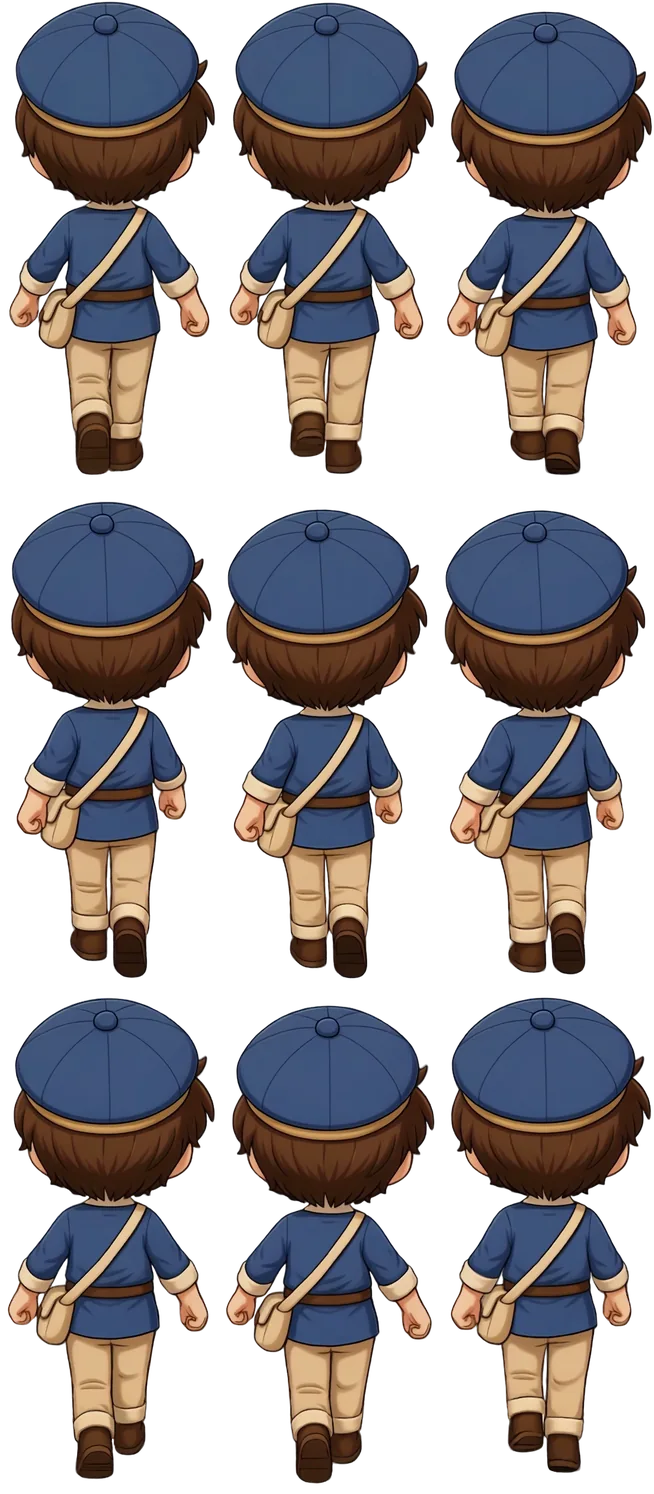
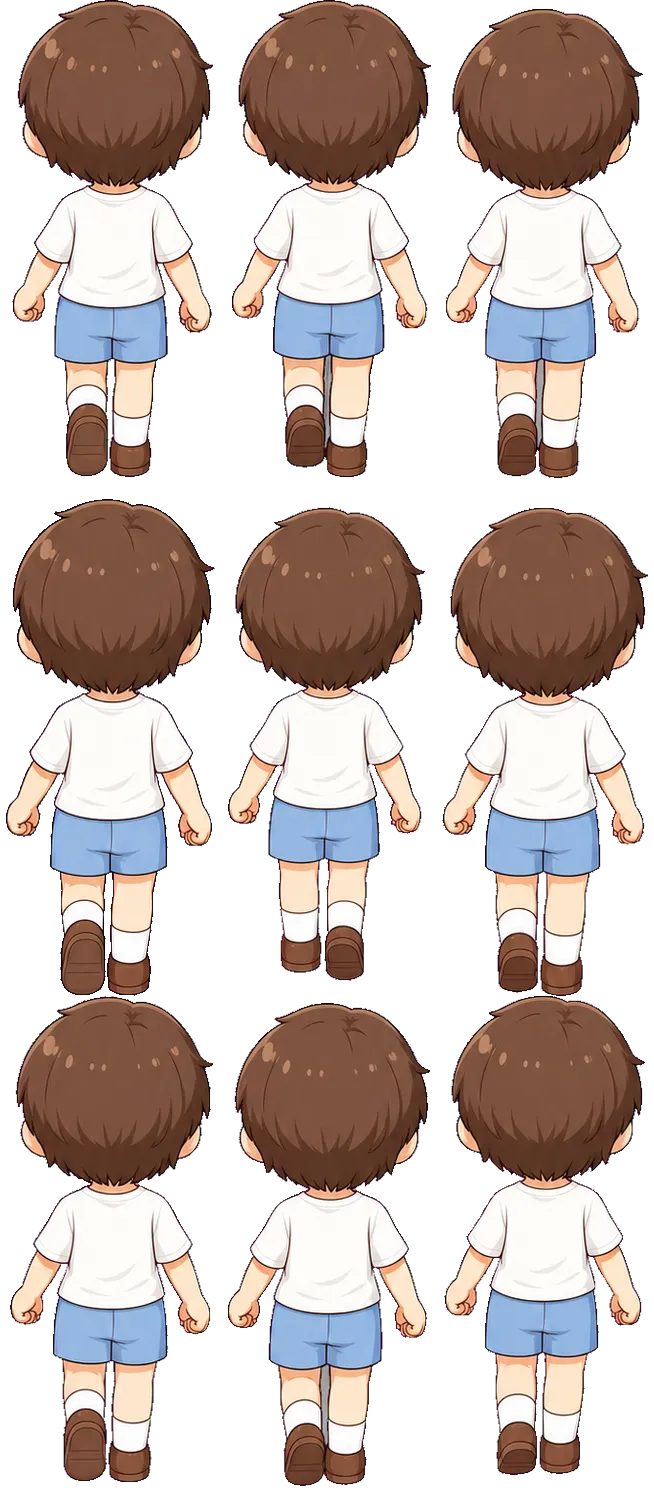
demo村莊：預設小男孩重生為素顏配對版（對齊素顏女孩）
- 拿掉藍帽/斜背包，外套→白T、卡其褲→藍短褲，配白襪棕鞋，棕短髮chibi
- player1/2/3.webp(正/背/側)換新，9幀走路循環一致、腳底基準齊、尺寸同原檔
- cache-bust ?v=4→5：初始載入(explore.js)、換裝切回預設(applyWalkOutfit)、多人遠端(mp.js)三條路徑全對齊
- index.html: explore.js?v=132→133、mp.js?v=30→31
- 原檔備份 village-web/_backup_default_boy_20260618/
- Codex審過：抓到applyWalkOutfit+mp.js漏改?v=4已補

diff --git a/village-web/explore.js b/village-web/explore.js
@@ -196,9 +196,9 @@ class ExploreScene extends Phaser.Scene {
     const ow = oc.sheets;
     // 紀錄這批 texture 實際載的是哪套造型（換裝對帳用，texture 是 game 全域所以放 window）
     if (!this.textures.exists("hero")) window.__walkOutfitApplied = oc.id;
-    if (!this.textures.exists("hero"))      this.load.spritesheet("hero",      this.assetBase + (ow ? ow.side : ps.side.image) + "?v=4", { frameWidth: ps.side.frame_width, frameHeight: ps.side.frame_height });
-    if (!this.textures.exists("hero_down")) this.load.spritesheet("hero_down", this.assetBase + (ow ? ow.down : ps.down.image) + "?v=4", { frameWidth: ps.down.frame_width, frameHeight: ps.down.frame_height });
-    if (!this.textures.exists("hero_up"))   this.load.spritesheet("hero_up",   this.assetBase + (ow ? ow.up   : ps.up.image)   + "?v=4", { frameWidth: ps.up.frame_width,   frameHeight: ps.up.frame_height });
+    if (!this.textures.exists("hero"))      this.load.spritesheet("hero",      this.assetBase + (ow ? ow.side : ps.side.image) + "?v=5", { frameWidth: ps.side.frame_width, frameHeight: ps.side.frame_height });
+    if (!this.textures.exists("hero_down")) this.load.spritesheet("hero_down", this.assetBase + (ow ? ow.down : ps.down.image) + "?v=5", { frameWidth: ps.down.frame_width, frameHeight: ps.down.frame_height });
+    if (!this.textures.exists("hero_up"))   this.load.spritesheet("hero_up",   this.assetBase + (ow ? ow.up   : ps.up.image)   + "?v=5", { frameWidth: ps.up.frame_width,   frameHeight: ps.up.frame_height });
 
     // 任務 NPC 頭頂符號（所有地圖共用，已載就跳過）：quest_mark=❗可領獎、quest_ask=❓可接任務、quest_progress=灰❗進行中
     if (!this.textures.exists("quest_mark")) this.load.image("quest_mark", "icons/ic_quest.webp?v=1");
@@ -1744,9 +1744,9 @@ window.applyWalkOutfit = function (sceneArg) {
   // 第一階段：先載到暫存 key，玩家照常顯示舊造型（不能先刪 hero——畫面上還在用，會 glTexture 噴錯）
   const SWAP = ["hero_swap_side", "hero_swap_down", "hero_swap_up"];
   SWAP.forEach((k) => { if (sc.textures.exists(k)) sc.textures.remove(k); });
-  sc.load.spritesheet("hero_swap_side", sc.assetBase + files.hero      + "?v=4", { frameWidth: ps.side.frame_width, frameHeight: ps.side.frame_height });
-  sc.load.spritesheet("hero_swap_down", sc.assetBase + files.hero_down + "?v=4", { frameWidth: ps.down.frame_width, frameHeight: ps.down.frame_height });
-  sc.load.spritesheet("hero_swap_up",   sc.assetBase + files.hero_up   + "?v=4", { frameWidth: ps.up.frame_width,   frameHeight: ps.up.frame_height });
+  sc.load.spritesheet("hero_swap_side", sc.assetBase + files.hero      + "?v=5", { frameWidth: ps.side.frame_width, frameHeight: ps.side.frame_height });
+  sc.load.spritesheet("hero_swap_down", sc.assetBase + files.hero_down + "?v=5", { frameWidth: ps.down.frame_width, frameHeight: ps.down.frame_height });
+  sc.load.spritesheet("hero_swap_up",   sc.assetBase + files.hero_up   + "?v=5", { frameWidth: ps.up.frame_width,   frameHeight: ps.up.frame_height });
   sc.load.once("complete", () => {
     if (gen !== sc._outfitGen) return;   // restart 已重置狀態，殘留回呼不准碰新場景（create 端會自癒補套）
     const done = (okId) => {

diff --git a/village-web/mp.js b/village-web/mp.js
@@ -50,9 +50,9 @@
     var base = scene.assetBase || "", f = skinSheets(id);
     var d = { side: frameDimsOf(scene, "hero"), down: frameDimsOf(scene, "hero_down"), up: frameDimsOf(scene, "hero_up") };
     outfitLoading[id] = true;
-    if (!scene.textures.exists(prefix + "_side")) scene.load.spritesheet(prefix + "_side", base + f.side + "?v=4", { frameWidth: d.side.w, frameHeight: d.side.h });
-    if (!scene.textures.exists(prefix + "_down")) scene.load.spritesheet(prefix + "_down", base + f.down + "?v=4", { frameWidth: d.down.w, frameHeight: d.down.h });
-    if (!scene.textures.exists(prefix + "_up")) scene.load.spritesheet(prefix + "_up", base + f.up + "?v=4", { frameWidth: d.up.w, frameHeight: d.up.h });
+    if (!scene.textures.exists(prefix + "_side")) scene.load.spritesheet(prefix + "_side", base + f.side + "?v=5", { frameWidth: d.side.w, frameHeight: d.side.h });
+    if (!scene.textures.exists(prefix + "_down")) scene.load.spritesheet(prefix + "_down", base + f.down + "?v=5", { frameWidth: d.down.w, frameHeight: d.down.h });
+    if (!scene.textures.exists(prefix + "_up")) scene.load.spritesheet(prefix + "_up", base + f.up + "?v=5", { frameWidth: d.up.w, frameHeight: d.up.h });
     scene.load.once("complete", function () {
       // 三張圖任一 404 → 標記 failed 退回 default，別每幀重試
       if (!scene.textures.exists(prefix + "_side") || !scene.textures.exists(prefix + "_down") || !scene.textures.exists(prefix + "_up")) {

diff --git a/village-web/index.html b/village-web/index.html
@@ -102,7 +102,7 @@
 <script src="farm.js?v=14"></script>
 <script src="crop.js?v=7"></script>
 <!-- 多人整合（feature flag）：?mp=1 才載 colyseus + mp.js，否則完全是原本單機 demo -->
-<script>if(new URLSearchParams(location.search).get("mp")==="1"){document.write('<script src="colyseus.bundle.js"><\/script><script src="mp.js?v=30"><\/script>');}</script>
-<script src="explore.js?v=132"></script>
+<script>if(new URLSearchParams(location.search).get("mp")==="1"){document.write('<script src="colyseus.bundle.js"><\/script><script src="mp.js?v=31"><\/script>');}</script>
+<script src="explore.js?v=133"></script>
 </body>
 </html>
